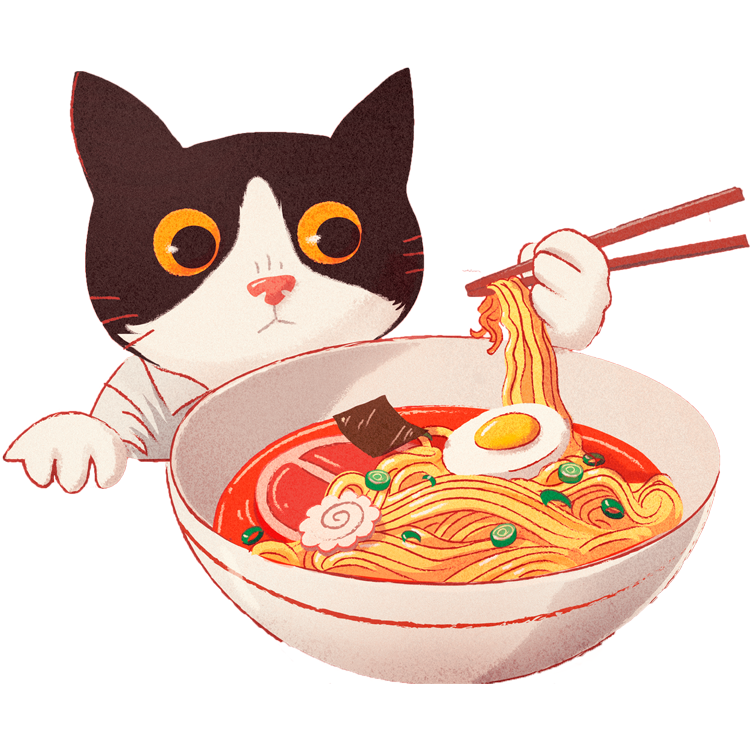
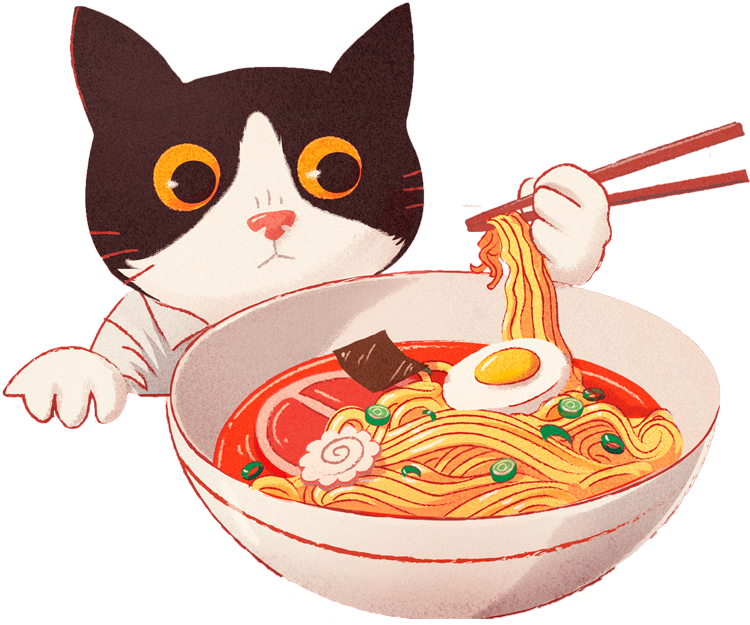
Change main page for screens less than fullHD

diff --git a/src/App.vue b/src/App.vue
@@ -13,9 +13,11 @@
 	}
 
 	.page-container {
-		padding: 30px 0 0;
+		padding-top: 30px;
+		padding-left: calc(100vw - 100%);
 		height: 100vh;
-		width: 100vw;
+		width: 100%;
+
 		background-repeat: no-repeat;
 		box-sizing: border-box;
 	}

diff --git a/src/components/Contacts.vue b/src/components/Contacts.vue
@@ -25,7 +25,7 @@
 							</div>
 						</div>
 					</div>
-					<div class="contacts__block__map">
+					<div class="block__map">
 						<img
 							src="../assets/map.png"
 							alt="Map" />

diff --git a/src/components/MainPage.vue b/src/components/MainPage.vue
@@ -117,7 +117,7 @@
 
 	.main__image {
 		width: 750px;
-		height: 750px;
+		height: 100%;
 	}
 
 	.main-page__footer {
